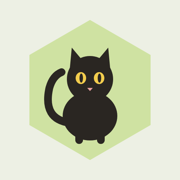
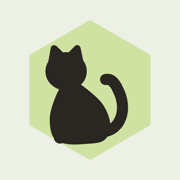
cat-trap: つよいネコ（逃げ道の太さで判断）を追加し、ネコの絵を元ゲーム風のなめらかなシルエットに

Changed region(s): [[0.2222, 0.25, 0.7222, 0.8056]]

diff --git a/cat-trap/index.html b/cat-trap/index.html
@@ -96,7 +96,8 @@
   .playing .cell.wall, .replay .cell { cursor: default; }
   .cell.pop { animation: pop .28s ease-out; }
   @keyframes pop { 0% { transform: scale(.4); } 70% { transform: scale(1.12); } 100% { transform: scale(1); } }
-  .cat-fill { fill: var(--cat); }
+  /* 塗りと同じ色の太い縁取りで角を丸め、部品の境目を溶かす */
+  .cat-fill { fill: var(--cat); stroke: var(--cat); stroke-width: 2.2; stroke-linejoin: round; }
   .cat-line { stroke: var(--cat); stroke-width: 3.2; stroke-linecap: round; fill: none; }
   #shadow { fill: var(--ink); opacity: .14; }
   #bubble { font: 700 13px var(--font); fill: var(--ink); text-anchor: middle; }
@@ -211,6 +212,7 @@
     <div id="brain" class="seg" role="group" aria-label="ネコの強さ">
       <button id="catNormal" data-brain="normal">のんびり</button>
       <button id="catSmart" data-brain="smart">かしこい</button>
+      <button id="catStrong" data-brain="strong">つよい</button>
     </div>
     </div>
     <button id="sheetClose">閉じる</button>
@@ -343,6 +345,7 @@ function moveCat(wa, c, br, rnd) {
     const most = Math.max(...opts.map(room));
     return pick(opts.filter(k => room(k) === most));
   }
+  if (br === 'strong') return strongMove(wa, c, rnd);
   if (br === 'smart') {
     // かしこいネコ：行き先ごとに「近くのどこを塞がれたら一番困るか」を全部試し、
     // それでも一番逃げやすいマスへ進む
@@ -373,6 +376,56 @@ function moveCat(wa, c, br, rnd) {
   const maxF = Math.max(...cands.map(freedom));
   cands = cands.filter(k => freedom(k) === maxF);
   return pick(cands);
+}
+
+/* つよいネコ：盤を電気の回路に見立て、ネコ(電圧1)から端(0)へ流れる電流を「逃げ道の太さ」として測る。
+   細い道1本より、太い道や何本もの道があるほど大きくなる（ヘックスというゲームのAIで使われる考え方）。
+   行き先ごとに「近くのどこを塞がれたら一番困るか」を全部試し、それでも一番太く残るマスへ進む。
+   太さと他の手がかりの配分 STRONG_W は、Claudeと約250局対戦させて決めた（近道の距離を少しだけ混ぜるのが一番だった） */
+const STRONG_W = [0.3, 0, 0, 0];   // [近道の距離, 出口までの距離, 使える広さ, 隣の空きマス] の重み
+function conductance(wa, c, cells) {
+  if (!cells.some(k => EDGEK[k])) return 0;
+  const V = new Float64Array(N * N); V[c] = 1;
+  const inner = cells.filter(k => k !== c && !EDGEK[k]);
+  for (let it = 0; it < 60; it++) for (const x of inner) {
+    let s = 0, n = 0;
+    for (const y of NBK[x]) if (!wa[y]) { s += V[y]; n++; }
+    V[x] += 1.6 * (s / n - V[x]);
+  }
+  let I = 0;
+  for (const y of NBK[c]) if (!wa[y]) I += 1 - V[y];
+  return I;
+}
+function strongValue(wa, n) {
+  const r = reach(wa, n), C = conductance(wa, n, r.cells);
+  if (C === 0) return -1e9;
+  let v = C;
+  const [wt, wo, wr, wn] = STRONG_W;
+  if (wt || wo) v -= wt * Math.min(twoDistArr(wa)[n], 20) + wo * Math.min(oneDistArr(wa)[n], 20);
+  v += wr * Math.min(r.cells.length, 120) / 100;
+  v += wn * NBK[n].filter(y => !wa[y]).length;
+  return v;
+}
+function strongMove(wa, c, rnd) {
+  const opts = NBK[c].filter(k => !wa[k]);
+  const exit = opts.find(k => EDGEK[k]);
+  if (exit !== undefined) return exit;
+  const near = reach(wa, c);
+  const blocks = near.cells.filter(k => k !== c && near.d[k] <= 4);
+  let best = -1e18, pool = [];
+  for (const n of opts) {
+    let worst = 1e18;
+    for (const b of blocks) {
+      if (b === n) continue;
+      wa[b] = 1;
+      const v = strongValue(wa, n);
+      wa[b] = 0;
+      if (v < worst) worst = v;
+      if (worst <= best) break;
+    }
+    if (worst > best) { best = worst; pool = [n]; } else if (worst === best) pool.push(n);
+  }
+  return pool[Math.floor(rnd() * pool.length)];
 }
 
 /* 今日の一問を裏で解く。ネコの手は決まっているので、壁の置き方だけを探せばよい。
@@ -556,78 +609,81 @@ const catSVG = `
   <ellipse id="shadow" cx="0" cy="0" rx="11" ry="3"/>
   <g id="catLift">
     <g id="catFlip">
-      <path id="tail" class="cat-line"/>
-      <line id="lb1" class="cat-line"/><line id="lb2" class="cat-line"/>
-      <line id="lf1" class="cat-line"/><line id="lf2" class="cat-line"/>
-      <ellipse id="cbody" class="cat-fill"/>
+      <path id="tail" class="cat-line" style="stroke-width:3.6"/>
+      <line id="legB" class="cat-line" style="stroke-width:4"/>
+      <line id="legF" class="cat-line" style="stroke-width:4"/>
+      <path id="cbody" class="cat-fill"/>
       <g id="head">
-        <polygon id="earL" class="cat-fill"/>
-        <polygon id="earR" class="cat-fill"/>
-        <circle r="6.6" class="cat-fill"/>
-        <g id="eyes">
-          <ellipse cx="1.2" cy="-1" rx="1.7" ry="1.9" fill="var(--eye)"/>
-          <ellipse cx="4.8" cy="-1" rx="1.7" ry="1.9" fill="var(--eye)"/>
-          <ellipse cx="1.5" cy="-1" rx=".55" ry="1.45" fill="var(--pupil)"/>
-          <ellipse cx="5.1" cy="-1" rx=".55" ry="1.45" fill="var(--pupil)"/>
-        </g>
-        <path id="sleepy" d="M-0.6,-0.6 q1.8,1.4 3.6,0 M3.2,-0.6 q1.6,1.3 3.2,0" stroke="var(--eye)" stroke-width="1.1" fill="none" stroke-linecap="round"/>
-        <path d="M6.3,1.6 l-1.6,0 l.8,1.1z" fill="var(--nose)"/>
+        <path id="earL" class="cat-fill"/>
+        <path id="earR" class="cat-fill"/>
+        <ellipse rx="5.6" ry="5.1" class="cat-fill"/>
       </g>
     </g>
   </g>
-  <text id="bubble" x="0" y="-38"></text>
+  <text id="bubble" x="0" y="-42"></text>
 </g>`;
 
+/* アイコンと同じ「横向きに座った黒いシルエット」。顔は描かない。
+   体の輪郭は11個の点を通るなめらかな曲線で、座る・跳ぶ・香箱座り（ふて寝）の3つの形の点を混ぜて動かす。
+   右向きで描き、左向きは反転する */
+const BODY = {   // うなじから背中・お尻・足元・胸・のどへ一周
+  sit:  [[1,-18.5],[-3.5,-15.5],[-8,-11],[-10,-5.5],[-8.5,-1.2],[-3,-.2],[3,-.2],[6.5,-2],[7.4,-7.5],[6,-13],[3.6,-17.6]],
+  leap: [[6.5,-16],[1,-15.5],[-5.5,-15],[-10,-12.8],[-9.5,-9.4],[-4.5,-8.6],[2,-8.6],[6.5,-9],[9.2,-10.8],[9.2,-13.8],[8.4,-15.6]],
+  lie:  [[4,-8.8],[-2,-9.4],[-7.5,-8.6],[-11,-5.4],[-10.5,-1.4],[-5.5,-.2],[1,-.2],[6,-.6],[8,-2.6],[8,-5.8],[7,-8.4]],
+};
+// 点を順に通る閉じた曲線（Catmull-Rom を3次ベジェに直す）
+function smoothClosed(pts) {
+  const n = pts.length, f = v => v.toFixed(2);
+  let d = `M${f(pts[0][0])},${f(pts[0][1])}`;
+  for (let i = 0; i < n; i++) {
+    const p0 = pts[(i - 1 + n) % n], p1 = pts[i], p2 = pts[(i + 1) % n], p3 = pts[(i + 2) % n];
+    d += ` C${f(p1[0] + (p2[0] - p0[0]) / 6)},${f(p1[1] + (p2[1] - p0[1]) / 6)} ${f(p2[0] - (p3[0] - p1[0]) / 6)},${f(p2[1] - (p3[1] - p1[1]) / 6)} ${f(p2[0])},${f(p2[1])}`;
+  }
+  return d + 'Z';
+}
 let C = {};
 function drawCat(now) {
   const p = pose(now);
   const set = (el, attrs) => { for (const k in attrs) el.setAttribute(k, attrs[k]); };
+  const f = n => n.toFixed(2);
   C.cat.setAttribute('transform', `translate(${p.x.toFixed(1)},${p.y.toFixed(1)})`);
   set(C.shadow, { rx: (11 - p.lift * .3).toFixed(1) });
   C.lift.setAttribute('transform', `translate(0,${(-p.lift).toFixed(1)})`);
   C.flip.setAttribute('transform', `scale(${p.face},1)`);
 
-  const by = -12 + 4 * p.crouch + 6.5 * p.lie;
-  set(C.body, {
-    cx: 0, cy: by.toFixed(2),
-    rx: (10 * (1 + .22 * p.stretch) + 1.5 * p.lie).toFixed(2),
-    ry: (6.6 * (1 - .12 * p.stretch + .08 * p.crouch)).toFixed(2),
-  });
+  // 座る → 跳ぶ(stretch) → 寝る(lie) を混ぜ、かがむ(crouch)で縦につぶす
+  const mixPt = (a, b, c) => [lerp(lerp(a[0], b[0], p.stretch), c[0], p.lie), lerp(lerp(a[1], b[1], p.stretch), c[1], p.lie)];
+  const squash = 1 - .16 * p.crouch;
+  const pts = BODY.sit.map((q, i) => { const m = mixPt(q, BODY.leap[i], BODY.lie[i]); return [m[0], m[1] * squash]; });
+  C.body.setAttribute('d', smoothClosed(pts));
 
-  // 脚：立ち・伸び・香箱座りの3つを混ぜる
-  const hip = [-6, by + 3], sh = [6, by + 3];
-  const stand = [[-7.5, 0], [-4.5, 0], [4.5, 0], [7.5, 0]];
-  const leap = [[-16, by + 6], [-13.5, by + 8], [16, by + 4], [13.5, by + 7]];
-  const tuck = [[-8, by + 4], [-5, by + 4], [5, by + 4], [8, by + 4]];
-  const legs = [C.lb1, C.lb2, C.lf1, C.lf2];
-  legs.forEach((el, i) => {
-    let fx = lerp(stand[i][0], leap[i][0], p.stretch), fy = lerp(stand[i][1], leap[i][1], p.stretch);
-    fx = lerp(fx, tuck[i][0], p.lie); fy = lerp(fy, tuck[i][1], p.lie);
-    const o = i < 2 ? hip : sh;
-    set(el, { x1: o[0] + (i % 2 ? 2 : -1), y1: o[1].toFixed(2), x2: fx.toFixed(2), y2: fy.toFixed(2) });
-  });
+  // 足：座っているときは輪郭の中に隠れ、跳ぶと前後に伸びる
+  const legF = [mixPt([4.6, -5.5], [8, -10], [5.5, -2]), mixPt([5.2, -1.2], [14.5, -6.5], [9, -1.2])];
+  const legB = [mixPt([-5, -3.5], [-7.5, -10.5], [-5.5, -2]), mixPt([-3.5, -1.2], [-14.5, -6], [-3.5, -1.2])];
+  set(C.legF, { x1: f(legF[0][0]), y1: f(legF[0][1] * squash), x2: f(legF[1][0]), y2: f(legF[1][1]) });
+  set(C.legB, { x1: f(legB[0][0]), y1: f(legB[0][1] * squash), x2: f(legB[1][0]), y2: f(legB[1][1]) });
 
-  // 頭
-  const hx = 10 + 3 * p.stretch - 1 * p.lie, hy = by - 6.5 + 1.5 * p.crouch + 2.5 * p.lie;
-  C.head.setAttribute('transform', `translate(${hx.toFixed(2)},${hy.toFixed(2)}) rotate(${p.tilt.toFixed(1)})`);
-  const d = p.droop * 38;
-  C.earL.setAttribute('points', '-5.6,-3 -4.6,-11 0.2,-5.8');
-  C.earL.setAttribute('transform', `rotate(${-d} -3 -4)`);
-  C.earR.setAttribute('points', '1.4,-6.2 5.8,-10.6 6.4,-2.4');
-  C.earR.setAttribute('transform', `rotate(${d} 4 -4)`);
-  const blinkScale = Math.max(.08, 1 - p.blink);
-  C.eyes.setAttribute('transform', `translate(0,-1) scale(1,${blinkScale}) translate(0,1)`);
-  const sleeping = p.lie > .6;
-  C.eyes.style.display = sleeping ? 'none' : '';
-  C.sleepy.style.display = sleeping ? '' : 'none';
+  // 頭：うなじとのどの間の少し上
+  const nape = pts[0], throat = pts[10];
+  const off = mixPt([.9, -4.6], [2.8, -2.4], [2.2, -1.2]);
+  C.head.setAttribute('transform', `translate(${f((nape[0] + throat[0]) / 2 + off[0])},${f((nape[1] + throat[1]) / 2 + off[1])}) rotate(${p.tilt.toFixed(1)})`);
+  // 耳は小さく、頭の輪郭から少しだけ出す
+  const d = p.droop * 30;
+  C.earL.setAttribute('d', 'M-4.6,-2.6 L-3.6,-7.4 L-.8,-4.6 Z');
+  C.earL.setAttribute('transform', `rotate(${-d} -3 -3.5)`);
+  C.earR.setAttribute('d', 'M1.2,-4.8 L3.9,-7.4 L4.8,-2.4 Z');
+  C.earR.setAttribute('transform', `rotate(${d} 3 -3.5)`);
 
-  // しっぽ：普段は立てて揺らす／跳ぶときは後ろへ伸ばす／寝るときは体に巻く
-  const base = [-9, by - 1];
-  let ang = lerp(-2.1 + p.sway, Math.PI - .2, p.straight);
-  let len = lerp(14, 15, p.straight);
-  ang = lerp(ang, 2.75 + p.sway, p.lie); len = lerp(len, 12, p.lie);
-  const tip = [base[0] + Math.cos(ang) * len, base[1] + Math.sin(ang) * len];
-  C.tail.setAttribute('d', `M${base[0]},${base[1].toFixed(2)} Q${(base[0] - 9).toFixed(2)},${(base[1] + 2).toFixed(2)} ${tip[0].toFixed(2)},${tip[1].toFixed(2)}`);
+  // しっぽ：座っているときは背中側にゆるくS字に立てる／跳ぶときは後ろへ流す／寝るときは体に沿わせる
+  // 先は少し前へ曲げる
+  const base = mixPt([-8.5, -3], [-9.5, -12.5], [-9.5, -2]);
+  const sw = p.sway * 4;
+  const c1 = mixPt([-15, -3.5], [-14.5, -13], [-10, 2]);
+  const c2 = mixPt([-17 + sw * .5, -11], [-18.5, -14.5 + sw * .4], [-3, 2.5]);
+  const tip = mixPt([-14.5 + sw, -16.5], [-21.5, -15.5 + sw * .5], [2, 1.2]);
+  const hc = mixPt([-12.8 + sw, -20.5], [-23.5, -16.5 + sw * .5], [4, .8]);
+  const he = mixPt([-10.4 + sw, -20], [-24.5, -18.5 + sw * .5], [5.2, -.2]);
+  C.tail.setAttribute('d', `M${f(base[0])},${f(base[1] * squash)} C${f(c1[0])},${f(c1[1])} ${f(c2[0])},${f(c2[1])} ${f(tip[0])},${f(tip[1])} Q${f(hc[0])},${f(hc[1])} ${f(he[0])},${f(he[1])}`);
 
   // 吹き出し
   let text = '', op = 1, bob = 0;
@@ -639,7 +695,7 @@ function drawCat(now) {
   }
   C.bubble.textContent = text;
   C.bubble.setAttribute('opacity', op);
-  C.bubble.setAttribute('transform', `translate(${(p.face * 6).toFixed(1)},${(bob - p.lift + 14 * p.lie).toFixed(1)})`);
+  C.bubble.setAttribute('transform', `translate(${(p.face * 6).toFixed(1)},${(bob - p.lift + 20 * p.lie).toFixed(1)})`);
 }
 
 function loop(now) { drawCat(now); requestAnimationFrame(loop); }
@@ -670,11 +726,8 @@ function buildBoard() {
     cat: svg.querySelector('#cat'), shadow: svg.querySelector('#shadow'),
     lift: svg.querySelector('#catLift'), flip: svg.querySelector('#catFlip'),
     body: svg.querySelector('#cbody'), head: svg.querySelector('#head'),
-    earL: svg.querySelector('#earL'), earR: svg.querySelector('#earR'),
-    eyes: svg.querySelector('#eyes'),
-    sleepy: svg.querySelector('#sleepy'), tail: svg.querySelector('#tail'),
-    lb1: svg.querySelector('#lb1'), lb2: svg.querySelector('#lb2'),
-    lf1: svg.querySelector('#lf1'), lf2: svg.querySelector('#lf2'),
+    earL: svg.querySelector('#earL'), earR: svg.querySelector('#earR'), tail: svg.querySelector('#tail'),
+    legF: svg.querySelector('#legF'), legB: svg.querySelector('#legB'),
     bubble: svg.querySelector('#bubble'),
   };
 }
@@ -737,9 +790,10 @@ function randomWalls(rnd = Math.random, lv = level) {
 }
 
 let brain = 'normal';      // ネコの強さ
-try { if (localStorage.getItem('cattrap-brain') === 'smart') brain = 'smart'; } catch {}
-const brainName = () => brain === 'smart' ? 'かしこいネコ' : 'のんびりネコ';
-const brainShort = () => brain === 'smart' ? 'かしこい' : 'のんびり';
+try { const b = localStorage.getItem('cattrap-brain'); if (b === 'smart' || b === 'strong') brain = b; } catch {}
+const BRAINS = { normal: 'のんびり', smart: 'かしこい', strong: 'つよい' };
+const brainName = () => BRAINS[brain] + 'ネコ';
+const brainShort = () => BRAINS[brain];
 
 function syncButtons() {
   document.querySelectorAll('#level button').forEach(b =>
@@ -856,7 +910,7 @@ function showResult(won, improved) {
     resultEl.hidden = false; infoEl.hidden = true; setStatus('');
     return;
   }
-  document.getElementById('answerBtn').textContent = 'Claudeの解答';
+  answerBtn.textContent = 'Claudeの解答'; answerBtn.disabled = false;
   const best = loadBest();
   document.getElementById('resMoves').textContent = (daily ? `${daily.label}・${brainName()} ／ ` : '') +
     (won ? `${moves}手` : `${moves}手目で逃げられた`) + (best && !improved ? ` ／ ${daily ? '今日の記録' : '最少記録'} ${best}手` : '');
@@ -1047,7 +1101,7 @@ function closeReplay() {
 function bestKey() {
   if (daily) return `cattrap-daily-${daily.date}-${brain}`;
   const base = level === 'hard' ? 'cattrap-best' : `cattrap-best-${level}`;
-  return brain === 'smart' ? `${base}-smart` : base;
+  return brain === 'normal' ? base : `${base}-${brain}`;
 }
 function loadBest() { if (tsume) return null; try { return Number(localStorage.getItem(bestKey())) || null; } catch { return null; } }
 // 記録を更新したら true
@@ -1070,8 +1124,26 @@ document.getElementById('retryBtn').onclick = () => { if (!preparing) start(fals
 document.getElementById('undoBtn').onclick = undo;
 document.getElementById('dailyBtn').onclick = startDaily;
 document.getElementById('reviewBtn').onclick = () => openReplay(log, 'あなたの手順');
-document.getElementById('answerBtn').onclick = () =>
-  tsume ? openReplay(tsumeAnswer(PUZZLES[tsume.i]), '答え') : openReplay(daily.answers[brain], 'Claudeの解答');
+const answerBtn = document.getElementById('answerBtn');
+answerBtn.onclick = async () => {
+  if (tsume) return openReplay(tsumeAnswer(PUZZLES[tsume.i]), '答え');
+  // つよいネコの解答は重いので、押されたときに初めて考える（勝てる保証はない）
+  if (!(brain in daily.answers)) {
+    if (busy || preparing) return;
+    busy = true; answerBtn.textContent = 'Claudeが考えています…';
+    const d = daily;
+    const ans = await solve(initialWalls, 'strong', d.seed, performance.now() + 60000);
+    busy = false; answerBtn.textContent = 'Claudeの解答';
+    d.answers.strong = ans;
+    try {
+      const c = JSON.parse(localStorage.getItem('cattrap-daily-puzzle') || 'null');
+      if (c && c.date === d.date) { c.answers.strong = ans; localStorage.setItem('cattrap-daily-puzzle', JSON.stringify(c)); }
+    } catch {}
+    if (daily !== d) return;
+  }
+  if (!daily.answers[brain]) { answerBtn.textContent = 'Claudeも勝てませんでした'; answerBtn.disabled = true; return; }
+  openReplay(daily.answers[brain], 'Claudeの解答');
+};
 document.getElementById('prevBtn').onclick = () => { if (replay.i > 0) { replay.i--; showReplayStep(false); } };
 document.getElementById('nextBtn').onclick = () => { if (replay.i < replay.steps.length) { replay.i++; showReplayStep(true); } };
 document.getElementById('closeBtn').onclick = closeReplay;
